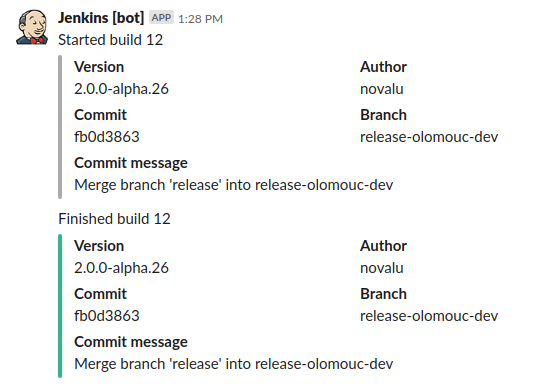
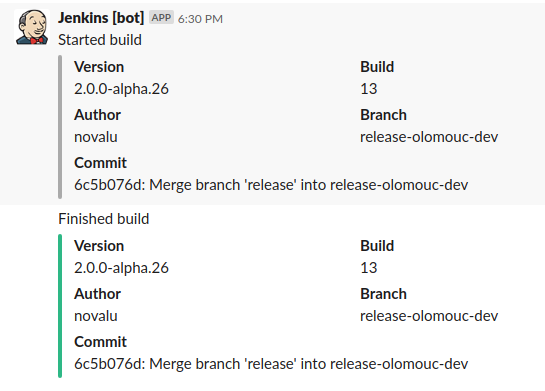
Update screenshot. Minor changes in README.

diff --git a/README.md b/README.md
@@ -1,4 +1,4 @@
-# CI Build Notifier
+# CI Build Slack Notifier
 
 Script is meant to be used with Continuous Integration server like Jenkins to notify about build state by sending messages to Slack. It is written as a simple alternative to offical [Slack plugin for Jenkins](https://github.com/jenkinsci/slack-plugin). However, because this project is a simple Node script, it can be used with different server than Jenkins or whatever service you're using.
 
@@ -43,7 +43,7 @@ Webhook URL is Slack Incoming Webhook, you can read more here: [https://api.sla
 ### Standalone
 
 ```shell script
-node bin/main.js -p "./app" -g "./" -w "https://hooks.slack.com/services/XXXXXXXXX/YYYYYYYYY/ZZZZZZZZZZZZZZZZZZZZZZZZ" -c "#AAAAAA" -t "Started"
+node bin/main.js -p "./app" -g "./" -w "https://hooks.slack.com/services/XXXXXXXXX/YYYYYYYYY/ZZZZZZZZZZZZZZZZZZZZZZZZ" -c "#AAAAAA" -t "Build started"
 ```
 
 ### In Jenkins pipeline
@@ -54,7 +54,7 @@ pipeline {
   stages {
     stage('Send start notification to Slack') {
       steps {
-        sh 'node bin/main.js -p "$WORKSPACE/app" -g "$WORKSPACE" -w "https://hooks.slack.com/services/XXXXXXXXX/YYYYYYYYY/ZZZZZZZZZZZZZZZZZZZZZZZZ" -c "#AAAAAA" -t "Started"'
+        sh 'node bin/main.js -p "$WORKSPACE/app" -g "$WORKSPACE" -w "https://hooks.slack.com/services/XXXXXXXXX/YYYYYYYYY/ZZZZZZZZZZZZZZZZZZZZZZZZ" -c "#AAAAAA" -t "Build started"'
       }
     }
   }
